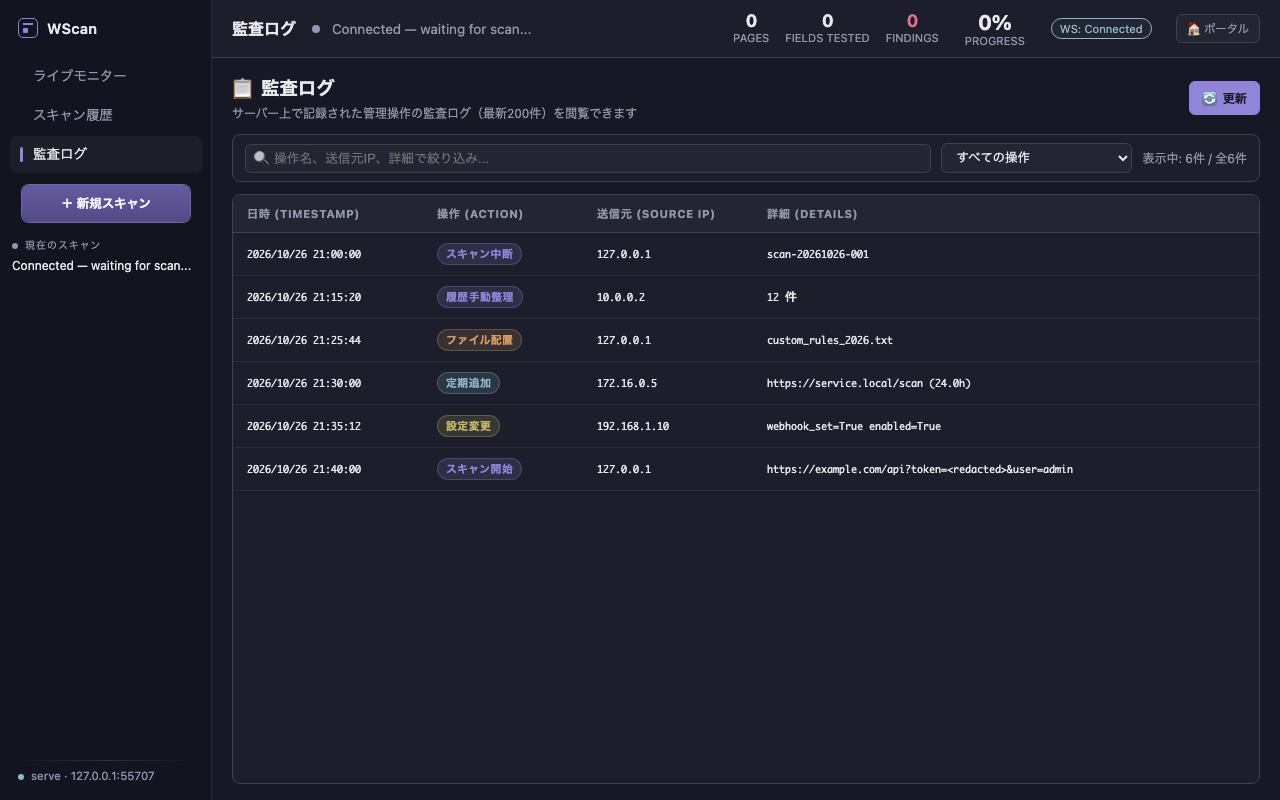
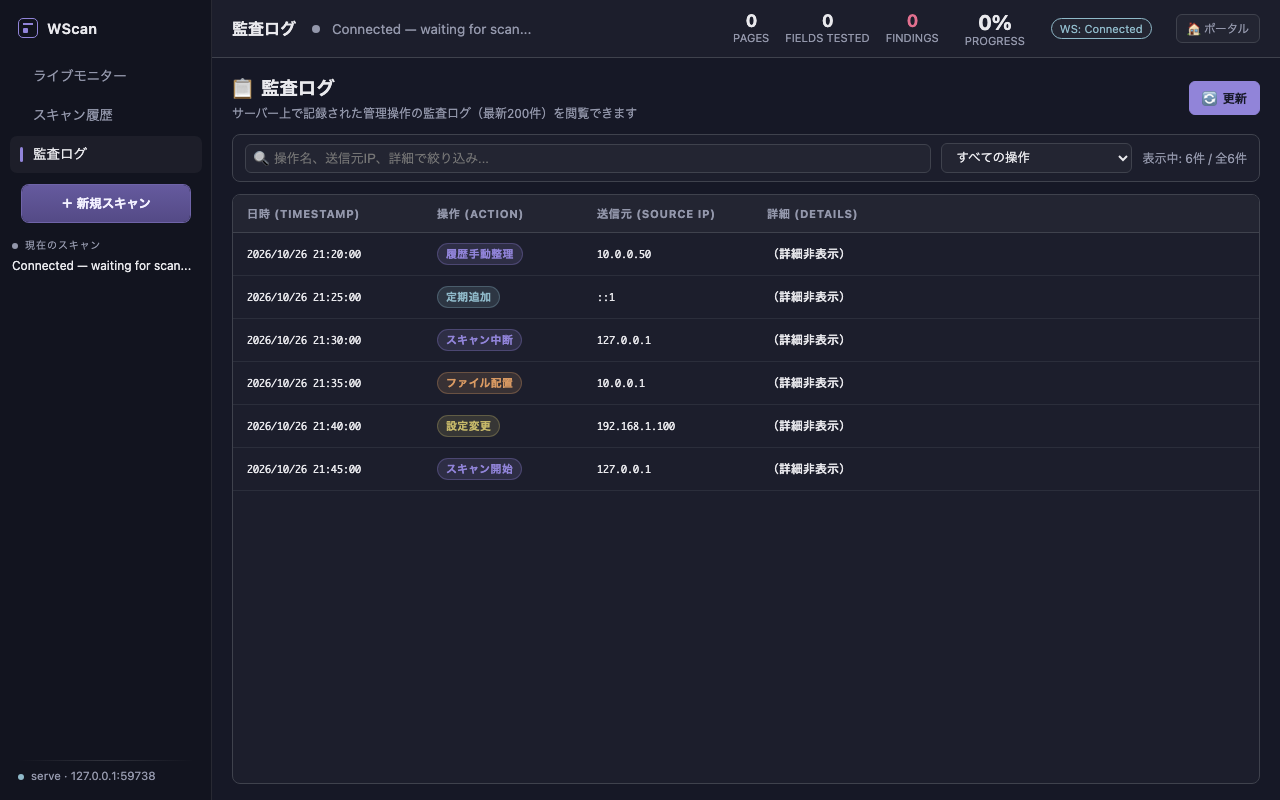
fix(dashboard): enforce total detail concealment and guard prototype action mapping in audit log

diff --git a/templates/dashboard.html b/templates/dashboard.html
@@ -7425,13 +7425,13 @@ const AUDIT_ACTION_MAP = {
   'settings_update': { label: '設定変更', group: 'settings', badgeClass: 'audit-action-settings' }
 };
 
-const SAFE_ALPHANUM_ID = /^[a-zA-Z0-9_-]{1,64}$/;
-const SAFE_SCHEDULE_ID = /^[0-9]{10,20}$/;
-const SAFE_PRUNE_DETAIL = /^[0-9]{1,6}\s*件$/;
-const SAFE_UPLOAD_FILENAME = /^[a-zA-Z0-9._-]{1,128}$/;
-const SAFE_SETTINGS_DETAIL = /^webhook_set=(True|False)\s+enabled=(True|False)$/;
-const SAFE_SCHEDULE_TOGGLE = /^(\S+)\s+enabled=(True|False)$/;
-const SAFE_SCHEDULE_ADD = /^(\S+)\s+\(([0-9.]+h)\)$/;
+function getAuditActionMeta(actionKey) {
+  if (typeof actionKey === 'string' && Object.prototype.hasOwnProperty.call(AUDIT_ACTION_MAP, actionKey)) {
+    return AUDIT_ACTION_MAP[actionKey];
+  }
+  return null;
+}
+
 const STRICT_IPV4_RE = /^(?:25[0-5]|2[0-4][0-9]|1[0-9]{2}|[1-9]?[0-9])(?:\.(?:25[0-5]|2[0-4][0-9]|1[0-9]{2}|[1-9]?[0-9])){3}$/;
 const STRICT_IPV6_RE = /^[0-9a-fA-F:]{2,39}$/;
 
@@ -7473,88 +7473,9 @@ function validateAndSanitizeClientIp(ipStr) {
   return '—';
 }
 
-function sanitizeSafeAuditUrl(urlStr) {
-  if (!urlStr || typeof urlStr !== 'string') return null;
-  const trimmed = urlStr.trim();
-  try {
-    const parsed = new URL(trimmed);
-    if (parsed.protocol !== 'http:' && parsed.protocol !== 'https:') return null;
-    let safeUrl = `${parsed.protocol}//${parsed.host}${parsed.pathname}`;
-    if (parsed.search) {
-      const sp = new URLSearchParams(parsed.search);
-      const safeParams = [];
-      for (const [k, v] of sp.entries()) {
-        if (isSensitiveKey(k)) {
-          safeParams.push(`${encodeURIComponent(k)}=<redacted>`);
-        } else {
-          safeParams.push(`${encodeURIComponent(k)}=${encodeURIComponent(v)}`);
-        }
-      }
-      if (safeParams.length > 0) safeUrl += `?${safeParams.join('&')}`;
-    }
-    return safeUrl;
-  } catch (_) {
-    return null;
-  }
-}
-
 function formatSafeAuditDetail(action, rawDetail) {
   if (!rawDetail || typeof rawDetail !== 'string') return '（詳細なし）';
-  const trimmed = rawDetail.trim();
-
-  switch (action) {
-    case 'scan_start': {
-      const sanitized = sanitizeSafeAuditUrl(trimmed);
-      return sanitized || '（詳細非表示）';
-    }
-    case 'scan_abort':
-    case 'scan_delete': {
-      if (SAFE_ALPHANUM_ID.test(trimmed)) return trimmed;
-      return '（詳細非表示）';
-    }
-    case 'scans_prune': {
-      if (SAFE_PRUNE_DETAIL.test(trimmed)) return trimmed;
-      return '（詳細非表示）';
-    }
-    case 'upload': {
-      // Filename may leak private sensitive project/secret names; check strict safe characters
-      if (SAFE_UPLOAD_FILENAME.test(trimmed)) {
-        // Also ensure it does not look like token/key file
-        const lower = trimmed.toLowerCase();
-        if (lower.includes('key') || lower.includes('secret') || lower.includes('token') || lower.includes('pass')) {
-          return '（詳細非表示）';
-        }
-        return trimmed;
-      }
-      return '（詳細非表示）';
-    }
-    case 'settings_update': {
-      if (SAFE_SETTINGS_DETAIL.test(trimmed)) return trimmed;
-      return '（詳細非表示）';
-    }
-    case 'schedule_add': {
-      const m = trimmed.match(SAFE_SCHEDULE_ADD);
-      if (m) {
-        const safeUrl = sanitizeSafeAuditUrl(m[1]);
-        if (safeUrl) return `${safeUrl} (${m[2]})`;
-      }
-      return '（詳細非表示）';
-    }
-    case 'schedule_toggle': {
-      const m = trimmed.match(SAFE_SCHEDULE_TOGGLE);
-      if (m) {
-        const safeUrl = sanitizeSafeAuditUrl(m[1]);
-        if (safeUrl) return `${safeUrl} enabled=${m[2]}`;
-      }
-      return '（詳細非表示）';
-    }
-    case 'schedule_delete': {
-      if (SAFE_SCHEDULE_ID.test(trimmed) || SAFE_ALPHANUM_ID.test(trimmed)) return trimmed;
-      return '（詳細非表示）';
-    }
-    default:
-      return '（詳細非表示）';
-  }
+  return '（詳細非表示）';
 }
 
 function setAuditViewState(stateName, errorMsg) {
@@ -7604,7 +7525,7 @@ function renderAuditTable() {
   const filtered = currentAuditData.filter(entry => {
     if (!entry) return false;
     const actionKey = String(entry.action || '');
-    const meta = AUDIT_ACTION_MAP[actionKey];
+    const meta = getAuditActionMeta(actionKey);
     const group = meta ? meta.group : 'other';
 
     if (auditActionFilter !== 'all' && group !== auditActionFilter) {
@@ -7612,11 +7533,11 @@ function renderAuditTable() {
     }
 
     if (auditSearchTerm) {
-      const actionMatch = (meta ? meta.label : actionKey).toLowerCase().includes(auditSearchTerm) ||
+      const actionLabel = meta ? meta.label : 'その他操作';
+      const actionMatch = actionLabel.toLowerCase().includes(auditSearchTerm) ||
                           actionKey.toLowerCase().includes(auditSearchTerm);
       const ipMatch = String(entry.ip || '').toLowerCase().includes(auditSearchTerm);
-      const detailMatch = String(entry.detail || '').toLowerCase().includes(auditSearchTerm);
-      if (!actionMatch && !ipMatch && !detailMatch) return false;
+      if (!actionMatch && !ipMatch) return false;
     }
     return true;
   });
@@ -7646,7 +7567,7 @@ function renderAuditTable() {
     const badge = document.createElement('span');
     badge.className = 'audit-action-badge';
     const actionKey = String(entry.action || '');
-    const actionMeta = AUDIT_ACTION_MAP[actionKey];
+    const actionMeta = getAuditActionMeta(actionKey);
     if (actionMeta) {
       badge.classList.add(actionMeta.badgeClass);
       badge.textContent = actionMeta.label;
@@ -7668,9 +7589,6 @@ function renderAuditTable() {
     tdDetail.className = 'audit-detail-cell';
     const safeDetail = formatSafeAuditDetail(actionKey, entry.detail);
     tdDetail.textContent = safeDetail;
-    if (safeDetail !== '（詳細非表示）' && safeDetail !== '（詳細なし）') {
-      tdDetail.title = safeDetail;
-    }
     tr.appendChild(tdDetail);
 
     tbody.appendChild(tr);

diff --git a/tests/test_dashboard_audit_log.py b/tests/test_dashboard_audit_log.py
@@ -211,20 +211,26 @@ def test_dashboard_audit_log_playwright_e2e(tmp_path, monkeypatch):
             dom_html = page.inner_html("#auditTableBody")
 
             # 3. Privacy & Canary Secret Verification
-            # Canary tokens MUST NOT appear anywhere in inner text or attributes
+            # Canary tokens and arbitrary details MUST NOT appear anywhere in inner text or attributes
             assert "CANARY_SECRET_TOKEN_123" not in dom_text
             assert "CANARY_SECRET_TOKEN_123" not in dom_html
             assert "CANARY_COMMAND_SECRET" not in dom_text
             assert "CANARY_COMMAND_SECRET" not in dom_html
 
-            # Sensitive upload file is concealed
+            # Upload filenames, scan IDs, URLs are completely concealed
+            assert "my-rules_v1.0.txt" not in dom_text
             assert "api_secret_key.pem" not in dom_text
+            assert "scan-safe-id-001" not in dom_text
+            assert "sched.example.com" not in dom_text
 
-            # Token query parameter was masked
-            assert "<redacted>" in dom_text
-
-            # Unknown action detail is concealed
+            # All non-empty details must be strictly （詳細非表示）
             assert "（詳細非表示）" in dom_text
+            detail_cells = page.locator("#auditTableBody td.audit-detail-cell")
+            for i in range(detail_cells.count()):
+                cell_text = detail_cells.nth(i).inner_text().strip()
+                assert cell_text in ("（詳細非表示）", "（詳細なし）")
+                # Ensure no title/tooltip attribute leaks detail
+                assert detail_cells.nth(i).get_attribute("title") is None
 
             # XSS probe detail was suppressed or text-escaped (no HTML tag execution)
             assert "<img src=x" not in dom_html
@@ -255,11 +261,15 @@ def test_dashboard_audit_log_playwright_e2e(tmp_path, monkeypatch):
             page.select_option("#auditActionFilter", "all")
             assert page.locator("#auditTableBody tr").count() == 9
 
-            # 5. Search Filter
+            # 5. Search Filter (matches action label/key or IP; detail is concealed and not searched)
             search = page.locator("#auditSearchInput")
-            search.fill("my-rules")
+            search.fill("スキャン開始")
             assert page.locator("#auditTableBody tr").count() == 1
-            assert "my-rules_v1.0.txt" in page.locator("#auditTableBody").inner_text()
+            search.fill("192.168.1.50")
+            assert page.locator("#auditTableBody tr").count() == 1
+            # Searching for raw detail text must yield 0 matches since detail is concealed
+            search.fill("my-rules")
+            assert page.locator("#auditTableBody tr").count() == 0
             search.fill("")
             assert page.locator("#auditTableBody tr").count() == 9
 
@@ -442,13 +452,110 @@ def test_dashboard_audit_log_ws_lifecycle_across_views(tmp_path, monkeypatch):
             page.click("#navLiveMonitor")
             page.wait_for_selector("#viewLiveMonitor")
 
-            # Trigger emit after returning to live
-            res3 = page.request.post(f"http://127.0.0.1:{port}/__test__/emit-step/after_return")
-            assert res3.status == 200
-            page.wait_for_function("document.getElementById('statPages') && document.getElementById('statPages').textContent.trim() === '3'")
-            assert any("after_return" in str(msg[1]) for msg in received_messages)
-            count_after = len(received_messages)
-            assert count_after > count_during
+            browser.close()
+    finally:
+        server_thread.stop()
+
+
+def test_dashboard_audit_log_adversarial_counterexamples(tmp_path, monkeypatch):
+    """Verify adversarial counterexamples: prototype pollution actions and total detail concealment."""
+    monkeypatch.setattr("wscan.monitor.OUTPUT_BASE", tmp_path)
+    srv = MonitorServer()
+
+    audit_file = tmp_path / "management_audit.jsonl"
+    entries = [
+        # 1-3. Prototype property names as action (must map to その他操作, never blank)
+        {"ts": "2026-10-26T12:00:00", "ip": "127.0.0.1", "action": "constructor", "detail": "CANARY_CONSTRUCTOR_DETAIL"},
+        {"ts": "2026-10-26T12:01:00", "ip": "127.0.0.1", "action": "__proto__", "detail": "CANARY_PROTO_DETAIL"},
+        {"ts": "2026-10-26T12:02:00", "ip": "127.0.0.1", "action": "toString", "detail": "CANARY_TOSTRING_DETAIL"},
+        # 4. Path canary in scan_start URL
+        {"ts": "2026-10-26T12:03:00", "ip": "10.0.0.1", "action": "scan_start", "detail": "https://example.com/api/v1/users/CANARY_SECRET_USER_123/profile"},
+        # 5. Userinfo, plain and nested query, fragment in scan_start URL
+        {"ts": "2026-10-26T12:04:00", "ip": "10.0.0.1", "action": "scan_start", "detail": "https://admin:CANARY_PASS_999@example.com/app?plain=CANARY_PLAIN&nested[key]=CANARY_NESTED#token=CANARY_HASH_999"},
+        # 6. Harmless alphanumeric sensitive filename in upload
+        {"ts": "2026-10-26T12:05:00", "ip": "10.0.0.1", "action": "upload", "detail": "sensitive_financial_records.xlsx"},
+        # 7. Safe-looking scan_id / alphanum ID in scan_abort / scan_delete
+        {"ts": "2026-10-26T12:06:00", "ip": "10.0.0.1", "action": "scan_delete", "detail": "scan-12345-CANARY-SAFE-ID"},
+        # 8. Numeric detail
+        {"ts": "2026-10-26T12:07:00", "ip": "10.0.0.1", "action": "scans_prune", "detail": "42"},
+        # 9. Boolean / settings detail
+        {"ts": "2026-10-26T12:08:00", "ip": "10.0.0.1", "action": "settings_update", "detail": "webhook_set=True enabled=True"},
+        # 10. Null / empty detail
+        {"ts": "2026-10-26T12:09:00", "ip": "10.0.0.1", "action": "scan_abort", "detail": ""},
+    ]
+    audit_file.write_text("\n".join(json.dumps(e) for e in entries) + "\n", encoding="utf-8")
+
+    port = find_free_port()
+    server_thread = UvicornServerThread(srv, port)
+    server_thread.start()
+
+    try:
+        with sync_playwright() as p:
+            browser = p.chromium.launch(headless=True)
+            page = browser.new_page(viewport={"width": 1280, "height": 800})
+            page.goto(f"http://127.0.0.1:{port}/monitor")
+
+            page.click("#navAuditLog")
+            page.wait_for_selector("#auditTableBody tr")
+
+            dom_text = page.inner_text("#auditTableBody")
+            dom_html = page.inner_html("#auditTableBody")
+
+            # 1. Prototype pollution actions must all display その他操作 with audit-action-other class
+            proto_rows = [r for r in page.locator("#auditTableBody tr").all() if "その他操作" in r.inner_text()]
+            assert len(proto_rows) == 3
+            for r in proto_rows:
+                badge = r.locator(".audit-action-badge")
+                assert badge.inner_text().strip() == "その他操作"
+                assert "audit-action-other" in (badge.get_attribute("class") or "")
+
+            # 2. Total detail concealment verification:
+            # None of the canaries or raw details must leak anywhere into DOM text or HTML attributes
+            canaries = [
+                "CANARY_CONSTRUCTOR_DETAIL",
+                "CANARY_PROTO_DETAIL",
+                "CANARY_TOSTRING_DETAIL",
+                "CANARY_SECRET_USER_123",
+                "CANARY_PASS_999",
+                "CANARY_PLAIN",
+                "CANARY_NESTED",
+                "CANARY_HASH_999",
+                "sensitive_financial_records.xlsx",
+                "scan-12345-CANARY-SAFE-ID",
+                "42",
+                "webhook_set=True",
+                "example.com",
+            ]
+            for canary in canaries:
+                assert canary not in dom_text, f"Canary '{canary}' leaked into DOM text"
+                assert canary not in dom_html, f"Canary '{canary}' leaked into DOM HTML"
+
+            # 3. Check detail cells strictly contain either （詳細非表示） or （詳細なし）
+            detail_cells = page.locator("#auditTableBody td.audit-detail-cell")
+            assert detail_cells.count() == 10
+            for i in range(10):
+                cell = detail_cells.nth(i)
+                txt = cell.inner_text().strip()
+                assert txt in ("（詳細非表示）", "（詳細なし）")
+                assert cell.get_attribute("title") is None
+
+            # Empty detail entry must be rendered as （詳細なし）
+            empty_cell = detail_cells.first  # entries[9] is newest (first)
+            assert empty_cell.inner_text().strip() == "（詳細なし）"
+
+            # 4. Search and filter behavior
+            # Search by 'その他操作' should match the 3 prototype pollution entries
+            page.fill("#auditSearchInput", "その他操作")
+            assert page.locator("#auditTableBody tr").count() == 3
+
+            # Search by canary string should match 0 rows
+            page.fill("#auditSearchInput", "CANARY")
+            assert page.locator("#auditTableBody tr").count() == 0
+
+            # Filter by 'other' should match the 3 prototype pollution entries
+            page.fill("#auditSearchInput", "")
+            page.select_option("#auditActionFilter", "other")
+            assert page.locator("#auditTableBody tr").count() == 3
 
             browser.close()
     finally:

diff --git a/docs/dashboard_usage_ja.md b/docs/dashboard_usage_ja.md
@@ -384,8 +384,7 @@ python3 main.py scan https://example.com \
 - **日時の厳格検証**: ISO 形式として妥当な日時のみを現地時間で整形表示し、無効・不正な形式は `不明` と表示して改ざんや誤認を防ぎます。
 - **送信元 IP の厳格検証**: 正当な IPv4 / IPv6 アドレスのみを表示し、不正な文字やプロキシヘッダ混入によるインジェクション・生文字列は `—` としてマスクします。
 - **詳細情報のプライバシー保護**:
-  - 対象 URL の query に含まれるトークンや資格情報（`token` / `secret` / `key` / `pass` など）は自動的に `<redacted>` にマスクされます。
-  - 機密情報を含む可能性のあるアップロードファイル名や、構造化されていない未知の自由文・引数は `（詳細非表示）` として安全に秘匿表示します。
+  - 全ての任意詳細（URL、ファイル名、スキャンID、設定値など）は、内容や形式を問わず一律で固定の `（詳細非表示）`（空値の場合は `（詳細なし）`）として安全に秘匿表示します。
   - 監査ログの raw ファイル（`output/management_audit.jsonl`）や backend API の保存契約は一切変更せず、表示層での安全性を担保します。
 - **検索と絞り込み**: 操作グループ別（スキャン / 定期スキャン / ファイル配置 / 設定変更 / その他）のドロップダウン絞り込み、およびテキスト検索に対応しています。
 - **状態ハンドリング**: 読み込み中スピナー、空状態（「記録された管理操作はありません」）、401 認証エラー時の再試行ボタンを完備しています。

diff --git a/README.md b/README.md
@@ -271,7 +271,7 @@ python3 main.py serve --host 127.0.0.1 --port 8765
 ```
 
 - `/` は Server Portal です。現在のスキャン、履歴、保存済みレポート、定期スキャン、監査ログ、通知設定を扱います。
-- `/monitor` は設定画面兼ライブモニターです。スキャン履歴・監査ログの独立画面を備え、対象 URL や監査詳細の表示時は資格情報や未知の自由文を伏せ、HTTP(S) として解釈できない値や曖昧な入力は中立のプレースホルダで安全に表示します。検出件数を確定できない履歴は「未取得」と表示し、0 件（検出なし）とは区別します。
+- `/monitor` は設定画面兼ライブモニターです。スキャン履歴・監査ログの独立画面を備え、スキャン対象 URL は表示時に資格情報を伏せ、監査ログの任意詳細は一律で非表示（（詳細非表示））として安全に秘匿表示します。HTTP(S) として解釈できない値や曖昧な入力は中立のプレースホルダで安全に表示します。検出件数を確定できない履歴は「未取得」と表示し、0 件（検出なし）とは区別します。
 - `--auth-token` または `WSCAN_AUTH_TOKEN` を設定すると、Web UI はログインを要求し、API は `Authorization: Bearer <token>` を要求します。
 - `0.0.0.0` はイントラネットから到達できる既定値です。ローカル限定なら `--host 127.0.0.1` を指定してください。
 
